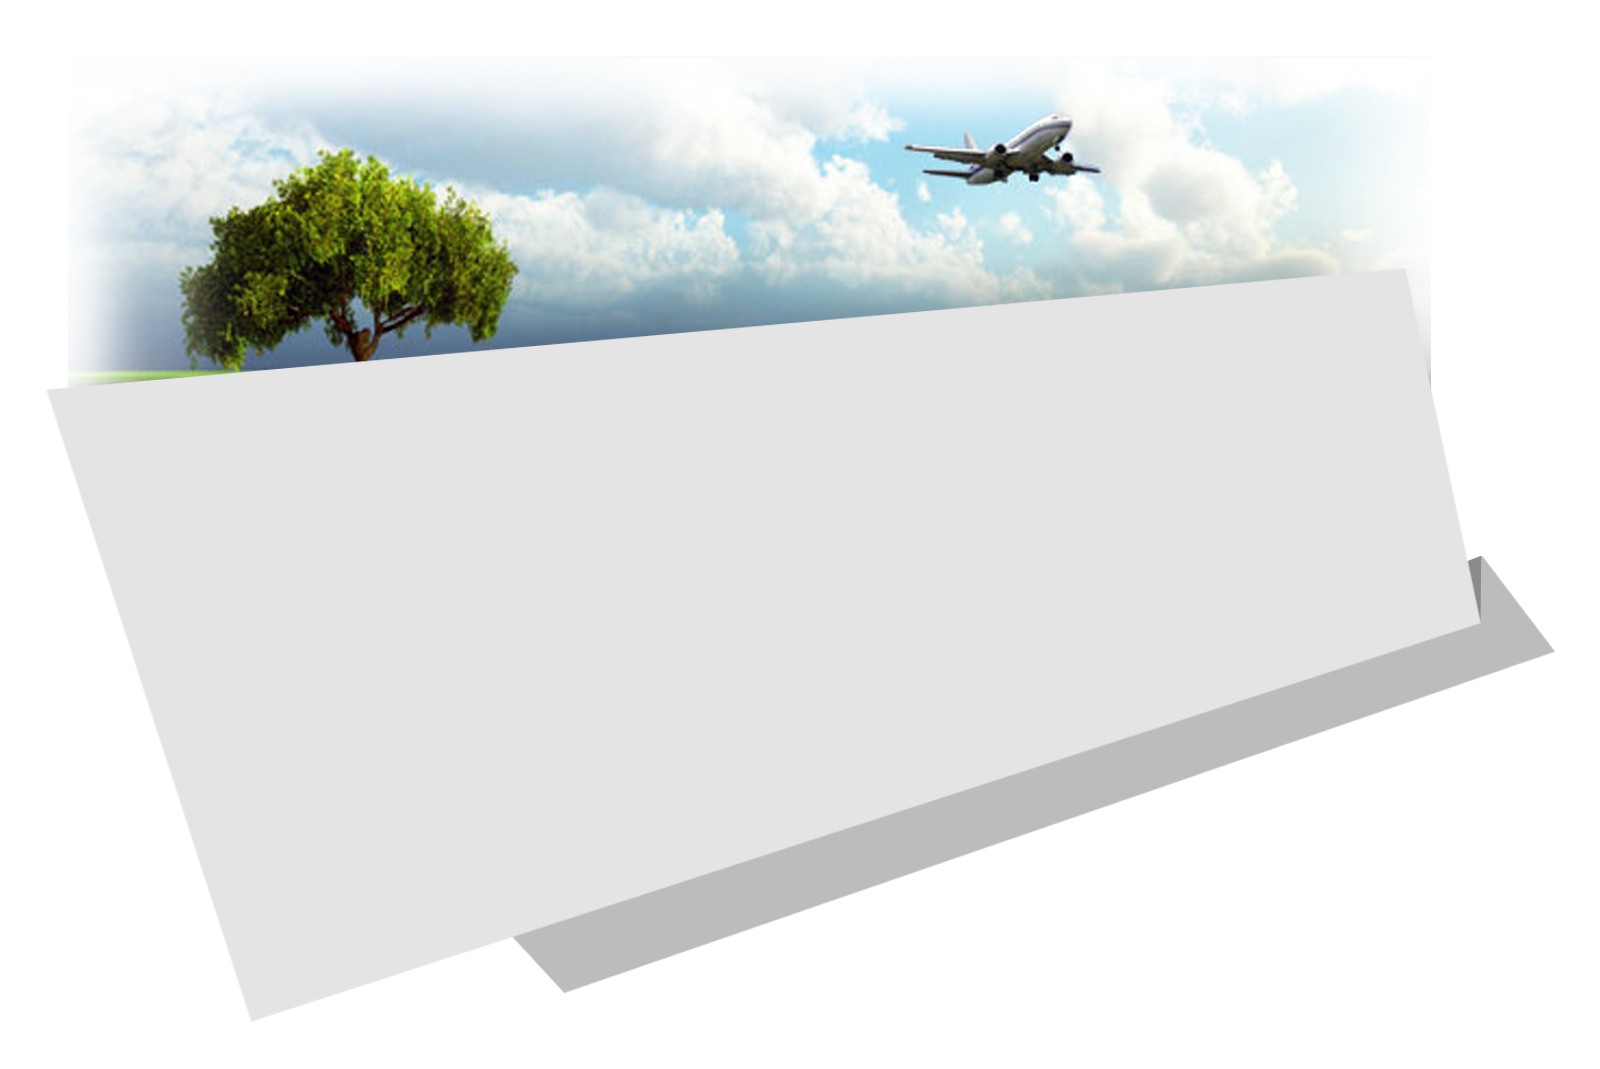
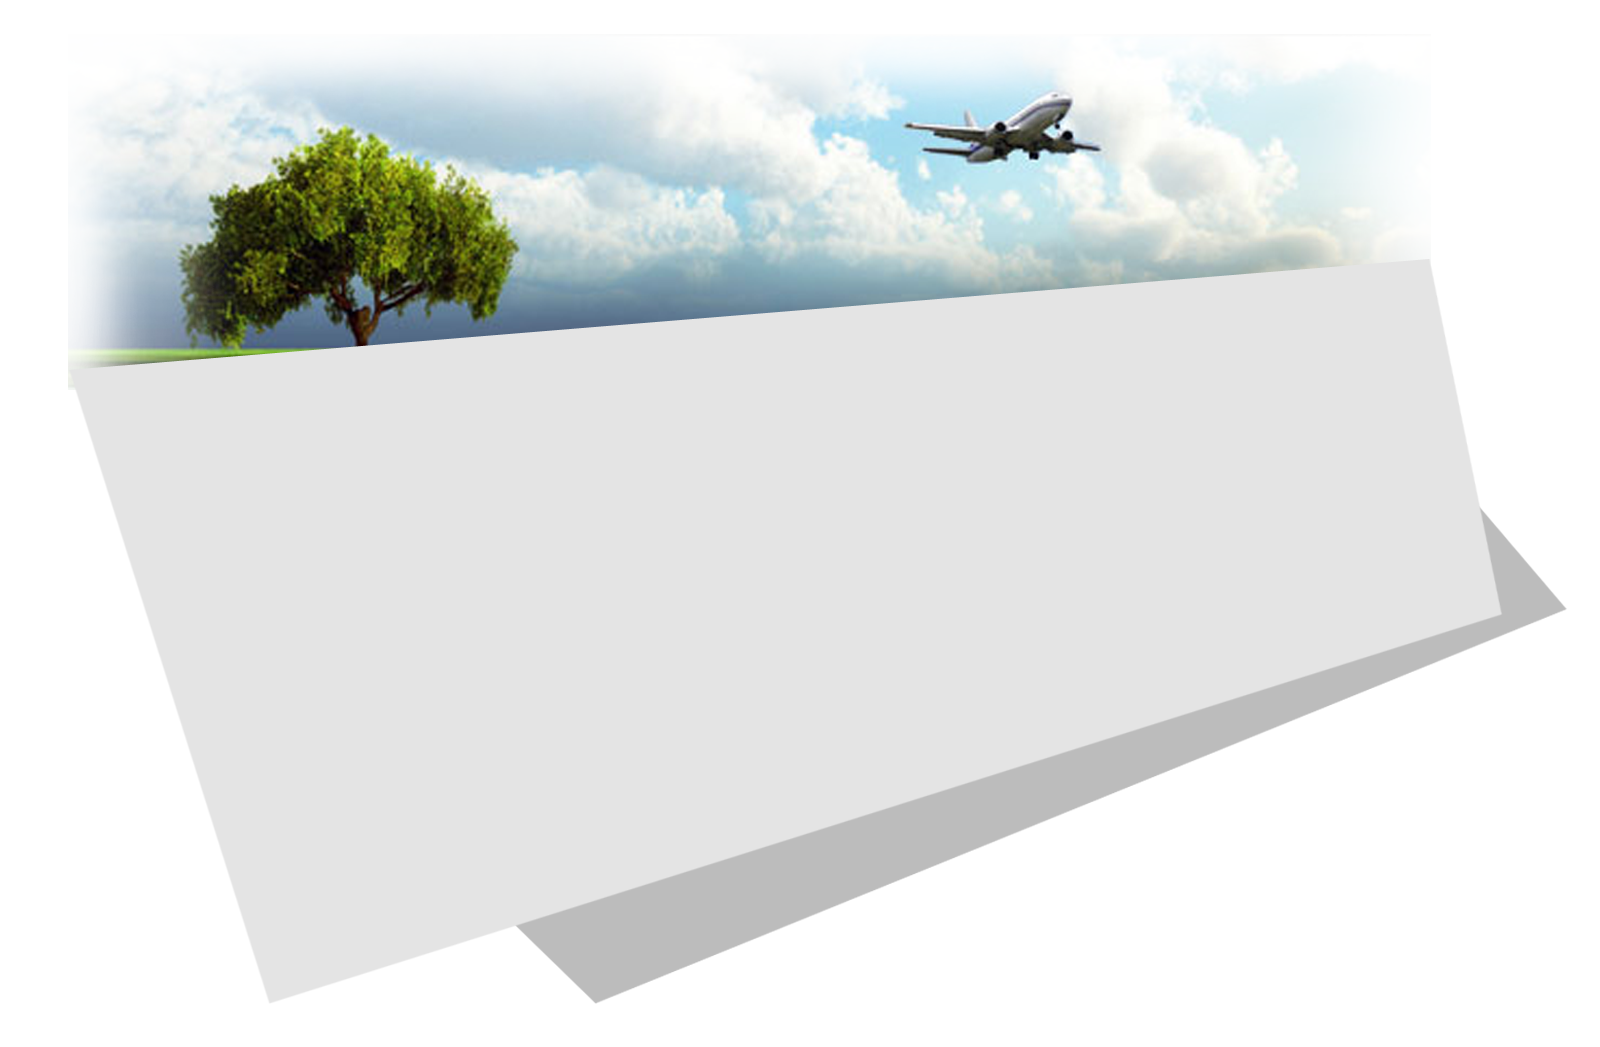
Signed-off-by: annamalai <annamalai@annamalai-desktop>

diff --git a/css/style.css b/css/style.css
@@ -267,17 +267,25 @@ margin: 0px;
 
 /*about*/
 
+.about_cont {
+
+width: 900px;
+}
+.about_cont h3{
+	
+	text-align: left;
+border-bottom: 1px solid #BCBCBC !important;
+}
+
 
 .about_bg{
-	
-	background: url(../img/about.png) no-repeat;
-}
-
-.about_cont{
-	
+	position: relative;
 	
 }
+.about_bg img {
 
+position: absolute;
+}
 
 /*gallery*/
 

diff --git a/about.php b/about.php
@@ -43,18 +43,19 @@
     <!-- header -->
    <?php include 'header.php';?>
              <div class="container">
-            
-                <div class="row">
-                      <div class="span12 about_bg">
-                     
-                      <div class="about_cont">
+            <div class="row">
+                
+                  <div class="span12 about_bg">
+                 <img alt="" src="img/about.png">
+                     <div class="about_cont">
                       <h3>About Us</h3>
                       <p>
 	Based in Coimbatore, Vitas is a fully fledged real estate agency with a dedicated team who assist our clients in any way possible, whether it is selling properties, or constructing budget villas. Having started out small in 2010 by Sridevi Selvaa, with a generous amount of learning, we have come a long way! We strive to help our clients, represent their needs, wants and beliefs.
 	So the next time you want to buy a villa or fully furnished apartment, think VITAS.</p>
                       </div>
-                       </div>
-                 </div>
+                 </div> 
+                 
+               </div>  
                  
               </div>      
           
